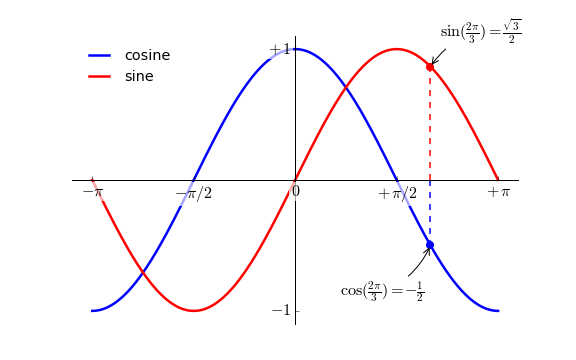
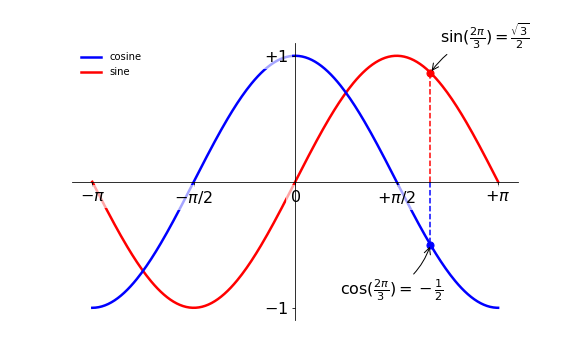
Change drawing order
Change zorder-attribute of the lines so that they are drawn before the
tick-labels. This moves the lines to the background and the tick-labels
to the foreground.

diff --git a/scripts/exercice_10.py b/scripts/exercice_10.py
@@ -17,8 +17,10 @@ ax.spines['left'].set_position(('data',0))
 X = np.linspace(-np.pi, np.pi, 256,endpoint=True)
 C,S = np.cos(X), np.sin(X)
 
-plt.plot(X, C, color="blue", linewidth=2.5, linestyle="-", label="cosine")
-plt.plot(X, S, color="red", linewidth=2.5, linestyle="-",  label="sine")
+plt.plot(X, C, color="blue", linewidth=2.5, linestyle="-", label="cosine",
+         zorder=-1)
+plt.plot(X, S, color="red", linewidth=2.5, linestyle="-",  label="sine",
+         zorder=-2)
 
 
 plt.xlim(X.min()*1.1, X.max()*1.1)
